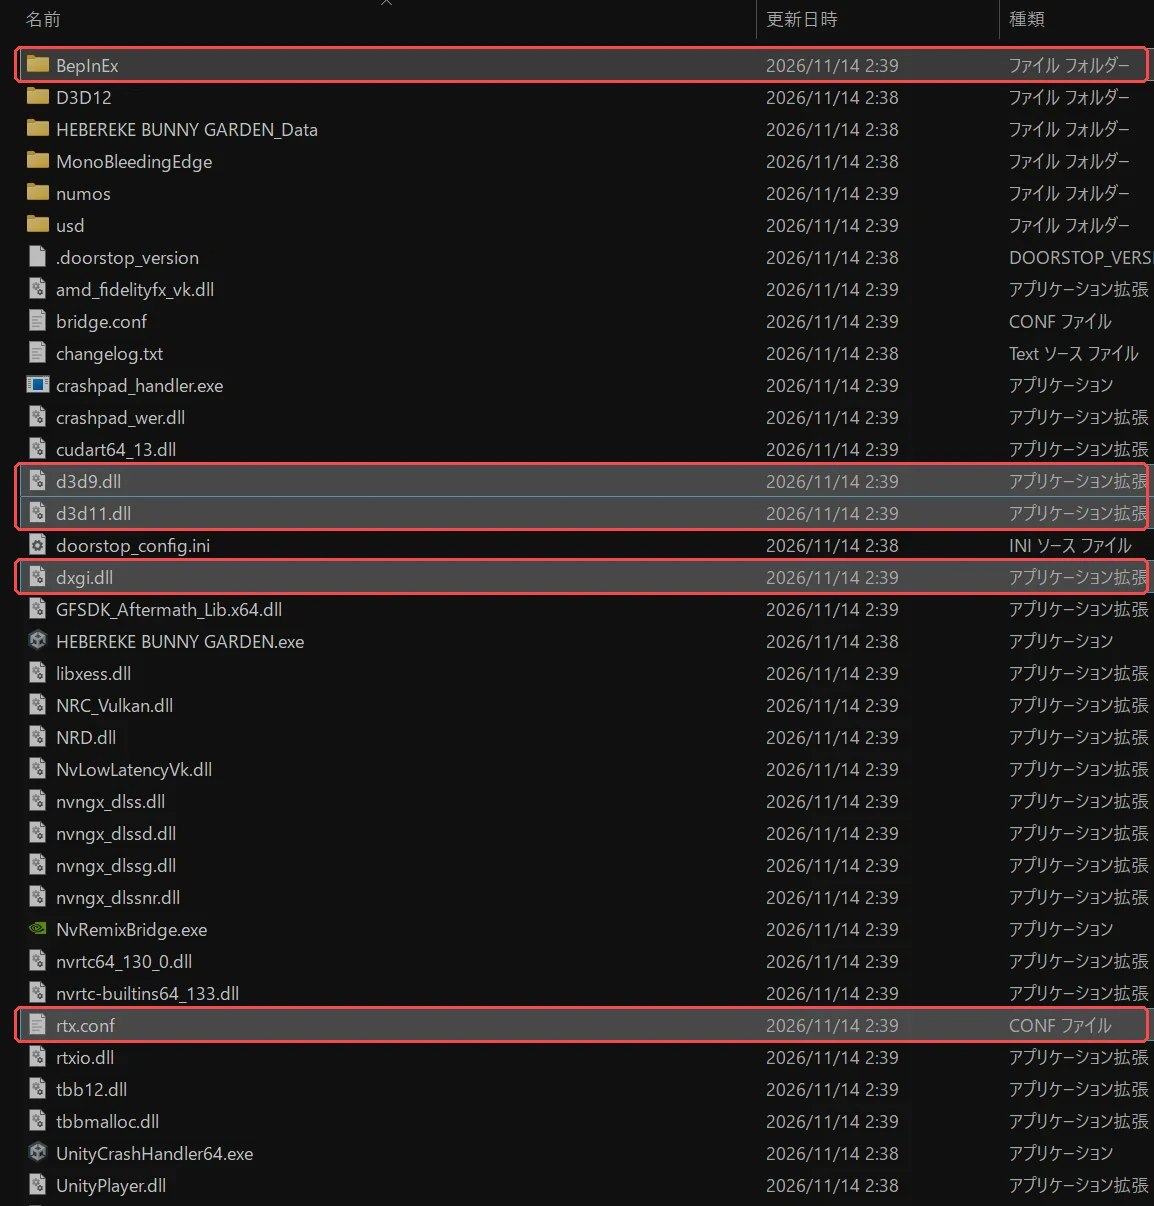
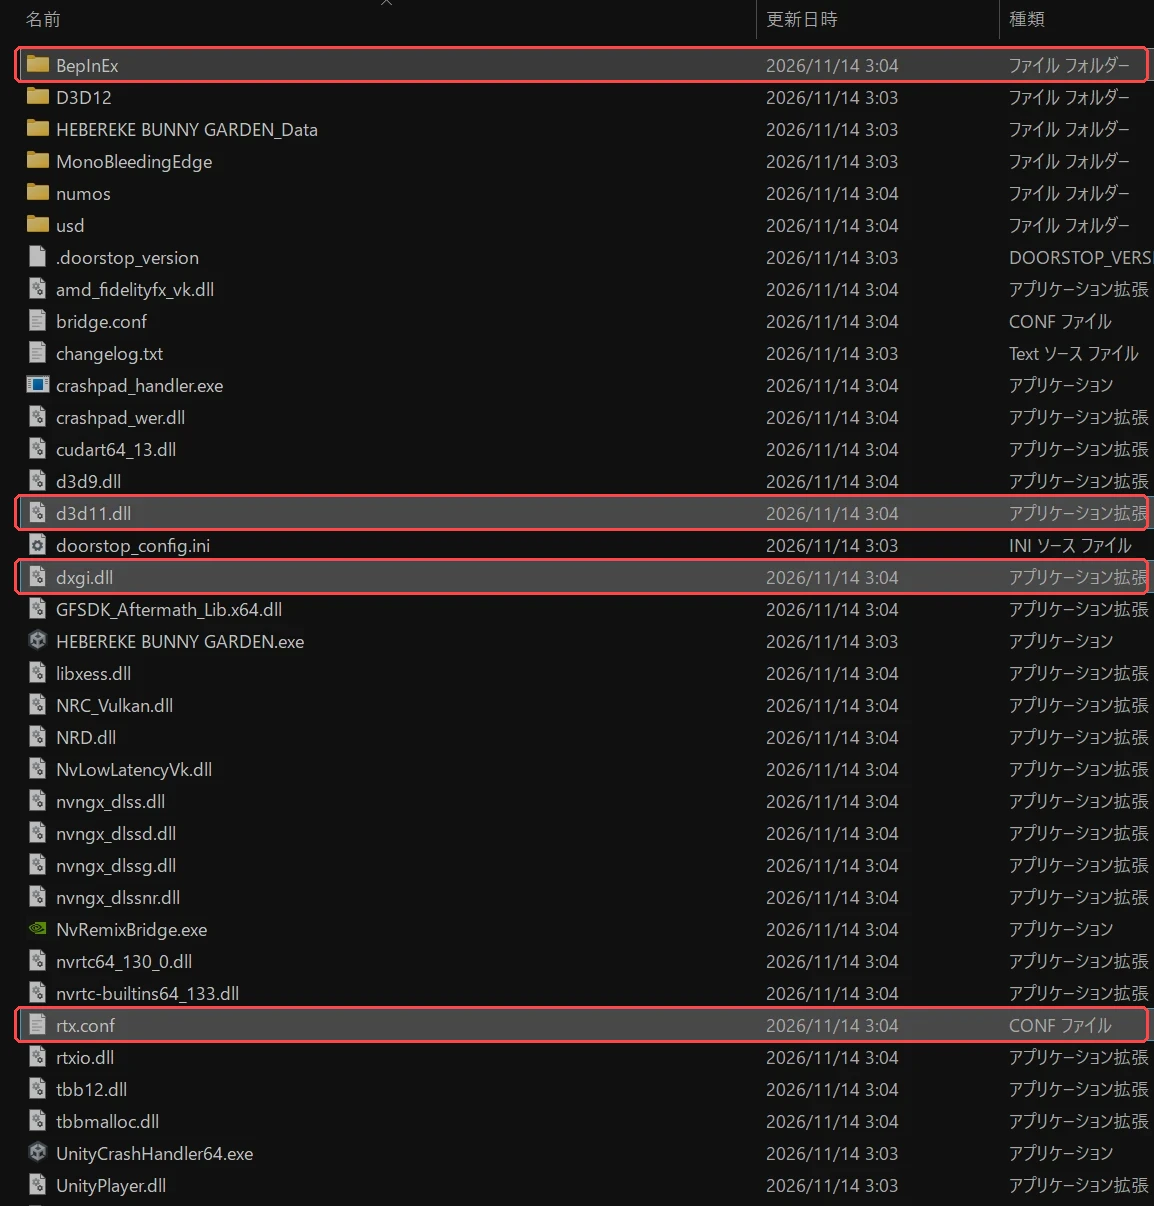
BepInEx 6 版を配れるようにし、導入の画像を直した
- BepInEx 6 版のビルドが通らなかった所（null 許容の値の書式）を直した
- .trex の中身を全部選んでゲームのフォルダにドラッグする画像
- 入れ終わったフォルダの画像で、Remix Plus の d3d9.dll の赤枠を外した
- README を BepInEx 5 版・6 版の 2 つの zip に合わせた

Changed region(s): [[0.0, 0.0307, 1.0, 1.0]]

diff --git a/HeberekeBunnyGardenRemix/SceneMirror.cs b/HeberekeBunnyGardenRemix/SceneMirror.cs
@@ -259,7 +259,7 @@ internal sealed class SceneMirror : MonoBehaviour
                 continue;
             }
             if (key == "mod.emissive") { Picker.LogEmissive(_log); continue; }
-            if (key == "mod.find") { Picker.LogFind(value, _log); _log.LogInfo($"カメラの cullingMask 0x{SceneCamera()?.cullingMask:X}"); continue; }
+            if (key == "mod.find") { Picker.LogFind(value, _log); _log.LogInfo($"カメラの cullingMask 0x{SceneCamera()?.cullingMask ?? 0:X}"); continue; }
             if (key == "mod.matinfo") { Picker.LogMaterials(value, _log); continue; }
             if (key == "mod.matset") { Picker.SetMaterial(value, _log); continue; }
             if (key == "mod.sunhighlight") { MaterialLibrary.SunHighlights = value != "0"; continue; }

diff --git a/README.md b/README.md
@@ -2,7 +2,7 @@
 
 ![コンビニの窓ガラス。左が元のゲーム、右がこの Mod で、右だけ窓にキャラクターと店の明かりが映っている](docs/images/hero.webp)
 
-[へべれけ ばにーがーでん](https://store.steampowered.com/app/3575730/_/)（海外名: Merry Bunny Garden）の街を、RTX Remix のパストレーシングで描く BepInEx 5 用の Mod です。
+[へべれけ ばにーがーでん](https://store.steampowered.com/app/3575730/_/)（海外名: Merry Bunny Garden）の街を、RTX Remix のパストレーシングで描く BepInEx 用の Mod です（BepInEx 5 版と 6 版があります）。
 
 街の建物・道路・看板・照明は Remix が光の通り道を計算して描き、キャラクターはその上にゲームがトゥーンの見た目のまま描き重ねます。
 濡れた路面やガラスには周りの景色が映り込み、看板や街灯の光が壁や床を照らし、キャラクターは街に影を落とします。
@@ -43,6 +43,7 @@
   - AMD / Intel の GPU でも Remix Plus 自体は動きますが、この Mod では試していません
 - Steam 版の へべれけ ばにーがーでん
 - [BepInEx 5.4.23](https://github.com/BepInEx/BepInEx/releases)（`BepInEx_win_x64_5.4.23.x.zip`）
+  - BepInEx 6（Unity Mono 版）を使っている人は、この Mod の BepInEx 6 版を使ってください。BepInEx 6 版は、作者の環境では動かして確かめていません
 - [Remix Plus v2.0.0](https://github.com/RemixProjGroup/dxvk-remix/releases/tag/remix-plus-2.0.0)（`Remix_Plus_v2.0.0.zip`、約 470MB）
 
 ## 導入方法
@@ -67,21 +68,20 @@
 
    ![Remix Plus の zip の game folder](docs/images/install/2-remixplus-zip.webp)
 
-3. `.trex` フォルダを開き、**中のファイルとフォルダを全部**ゲームのフォルダにコピーします（同じ名前のファイルは上書き）
+3. `.trex` フォルダを開き、Ctrl+A で**中のファイルとフォルダを全部**選んで、ゲームのフォルダにドラッグします（同じ名前のファイルは上書き）。`.trex` フォルダごとではなく、中身をゲームのフォルダの直下に入れます
 
-   ![.trex フォルダの中身（このあとにも、まだファイルが続きます）](docs/images/install/2-trex.webp)
+   ![.trex フォルダの中身を全部選んで、ゲームのフォルダにドラッグする](docs/images/install/2-trex.webp)
 
    一部だけコピーすると起動しません。`.trex` の中のフォルダ（`numos` など）も含めて全部コピーしてください。
 
 ### 3. この Mod を入れる
 
-1. [Releases](../../releases/latest) から `HeberekeBunnyGardenRemix-1.0.0.zip` をダウンロードします
+1. [Releases](../../releases/latest) から、BepInEx 5 なら `HeberekeBunnyGardenRemix_v1.0.0_BepInEx5.zip`、BepInEx 6 なら `HeberekeBunnyGardenRemix_v1.0.0_BepInEx6.zip` をダウンロードします
 2. zip の**中身を全部**ゲームのフォルダに入れます（上書きしてよいか聞かれたら「はい」）。`licenses` フォルダはライセンスの文書なので、入れなくてもかまいません
 
    ![この Mod の zip の中身](docs/images/install/3-mod-zip.webp)
 
-入れ終わったゲームのフォルダは、次のようになります（赤枠がこの手順で入れたファイルの一部。下にも Remix Plus のファイルが続きます）。
-`d3d11.dll`、`dxgi.dll`、`rtx.conf` はこの Mod、`d3d9.dll` は Remix Plus のファイルです。
+入れ終わったゲームのフォルダは、次のようになります。赤枠がこの手順（3.）で入れたファイルとフォルダで、ほかは BepInEx と Remix Plus のファイルです（下にも Remix Plus のファイルが続きます）。
 
 ![入れ終わったゲームのフォルダ](docs/images/install/4-done.webp)
 
@@ -126,6 +126,8 @@
 ```bash
 dotnet build HeberekeBunnyGardenRemix/HeberekeBunnyGardenRemix.csproj -c Release
 ```
+
+BepInEx 6 版は `-c Release_BIE6` でビルドします。
 
 - ゲームの DLL（`Assembly-CSharp.dll`、`UniTask.dll`、URP など）を `HeberekeBunnyGardenRemix/Assembly/` に置いてください（ゲームの `HEBEREKE BUNNY GARDEN_Data/Managed` から。リポジトリには入れていません）
 - `d3d11.dll` / `dxgi.dll` は `native/forwarders/build.cmd`（Visual Studio の C++ が要る）で作ります。Remix Plus の転送用の DLL をそのまま写した物です
